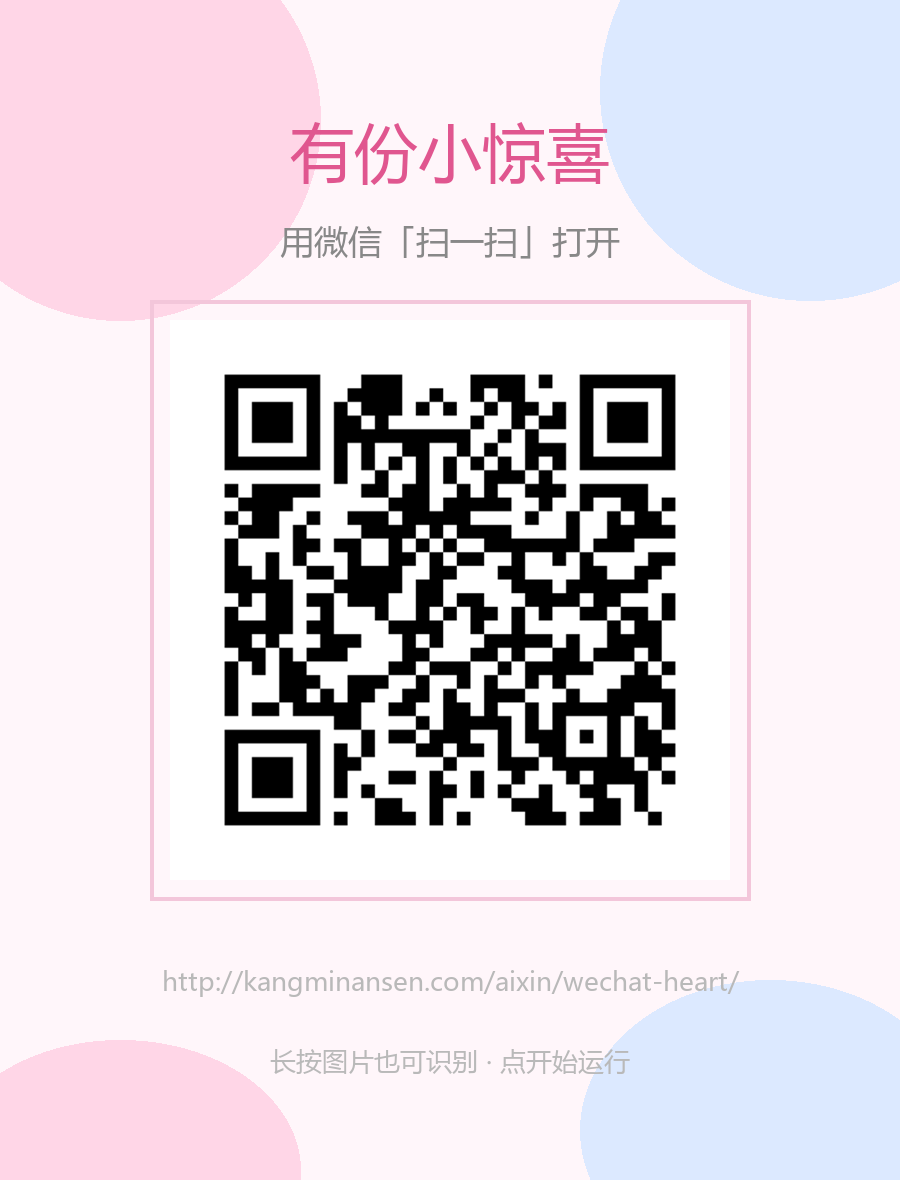
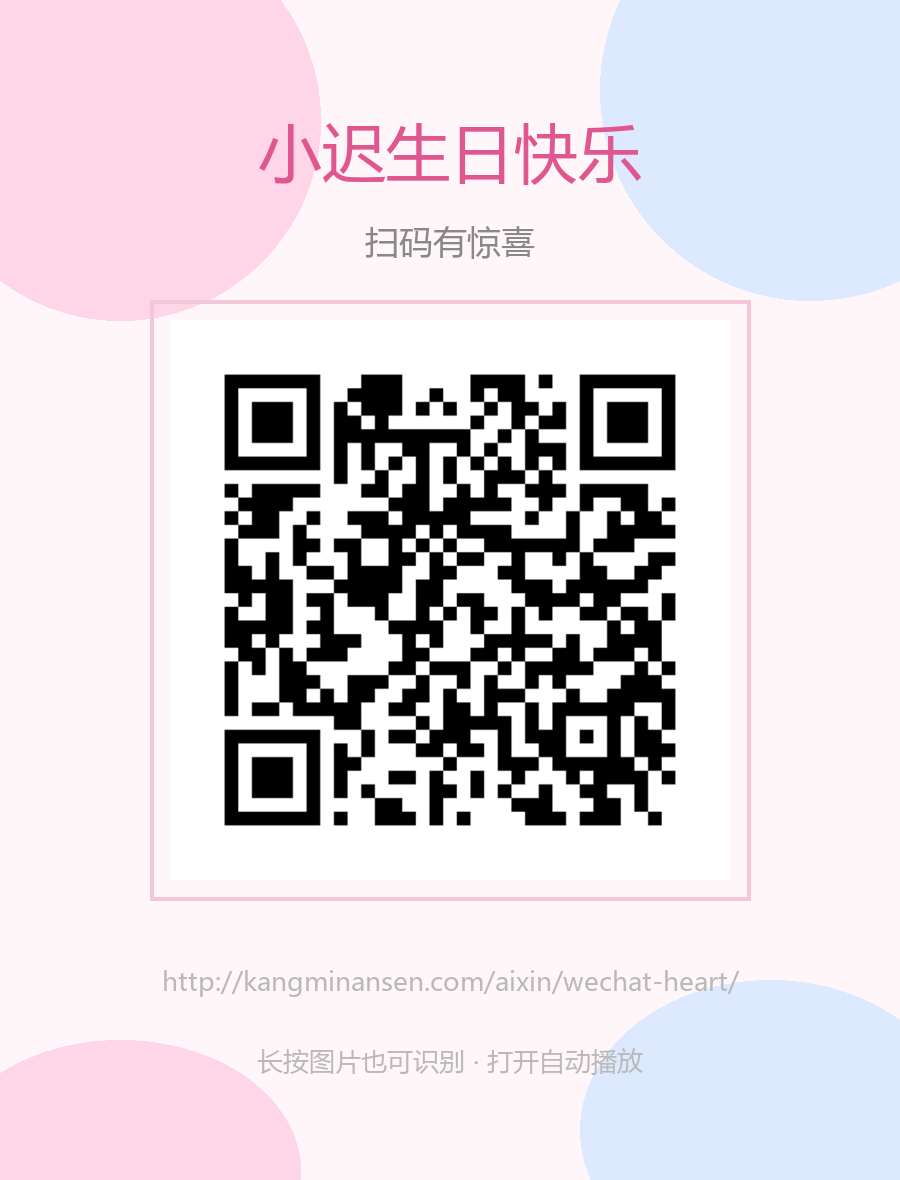
Add files via upload

diff --git a/wechat-heart/index.html b/wechat-heart/index.html
@@ -4,14 +4,14 @@
 <meta charset="UTF-8">
 <meta name="viewport" content="width=device-width, initial-scale=1, maximum-scale=1, user-scalable=no, viewport-fit=cover">
 <meta name="format-detection" content="telephone=no">
-<title>💗 有份小惊喜</title>
+<title>🎂 小迟生日快乐</title>
 <style>
   * { margin:0; padding:0; box-sizing:border-box; -webkit-tap-highlight-color:transparent; }
   html, body { width:100%; height:100%; overflow:hidden; }
   body {
     position:fixed; top:0; left:0; right:0; bottom:0;
     font-family:'PingFang SC','Microsoft YaHei','微软雅黑',sans-serif;
-    background:linear-gradient(135deg,#ffe6f0 0%,#e8f0ff 45%,#fff6e0 100%);
+    background:linear-gradient(135deg,#fff6e5 0%,#ffe3ee 45%,#fff0c2 100%);
     user-select:none; -webkit-user-select:none; overscroll-behavior:none;
   }
   #stage { position:fixed; top:0; left:0; right:0; bottom:0; overflow:hidden; }
@@ -59,14 +59,23 @@
     color:#888; border-radius:999px; padding:6px 14px; font-size:13px; cursor:pointer;
     touch-action:manipulation;
   }
+  .deco { position:fixed; opacity:.25; z-index:1; pointer-events:none; user-select:none; animation:floaty 5s ease-in-out infinite; }
+  @keyframes floaty { 0%,100% { transform:translateY(0); } 50% { transform:translateY(-18px); } }
 </style>
 </head>
 <body>
 <div id="stage"></div>
 
+<div class="deco" style="left:6%;top:8%;font-size:46px">🎂</div>
+<div class="deco" style="right:8%;top:14%;font-size:40px;animation-delay:.8s">🎈</div>
+<div class="deco" style="left:12%;bottom:12%;font-size:42px;animation-delay:1.6s">🎁</div>
+<div class="deco" style="right:10%;bottom:10%;font-size:38px;animation-delay:2.4s">🎉</div>
+<div class="deco" style="left:45%;top:5%;font-size:36px;animation-delay:3.2s">🍰</div>
+<div class="deco" style="right:30%;bottom:6%;font-size:34px;animation-delay:4s">🎈</div>
+
 <div id="endMask">
-  <h1>💌 送给你</h1>
-  <p>好好吃饭，好好爱自己<br>今天也要开心呀</p>
+  <h1>🎂 小迟生日快乐！</h1>
+  <p>身体健康，天天开心<br>所有的祝福都送给你</p>
   <button class="btn" id="againBtn">再来一次</button>
 </div>
 
@@ -75,8 +84,8 @@
 <script>
 (function () {
   'use strict';
-  var tips = ['学业有成','好好爱自己','好好吃饭','保持好心情','身体健康','顺顺利利','别熬夜','天凉了多穿衣服'];
-  var colors = ['#FFC0CB','#ADD8E6','#90EE90','#FFFACD','#FF69B4','#87CEEB'];
+  var tips = ['身体健康','好好吃饭','天天开心','别老熬夜','天冷了多穿点','别感冒','好好爱自己'];
+  var colors = ['#FFC0CB','#FFE4B5','#98FB98','#FFFACD','#FFB6C1','#FFDAB9'];
 
   var stage = document.getElementById('stage');
   var endMask = document.getElementById('endMask');
@@ -93,22 +102,25 @@
     return { sw: sw, sh: sh, w: w, h: h };
   }
 
-  function makeWin(x, y, text) {
+  function makeWin(x, y, text, opts) {
+    opts = opts || {};
     var d = sizeWin();
+    var w = opts.w || d.w;
+    var h = opts.h || d.h;
     var win = document.createElement('div');
     win.className = 'win';
     win.style.left = Math.round(x) + 'px';
     win.style.top = Math.round(y) + 'px';
-    win.style.width = d.w + 'px';
-    win.style.height = d.h + 'px';
-    win.style.background = colors[Math.floor(Math.random() * colors.length)];
+    win.style.width = w + 'px';
+    win.style.height = h + 'px';
+    win.style.background = opts.bg || colors[Math.floor(Math.random() * colors.length)];
     win.style.transform = 'rotate(' + (Math.random() * 4 - 2).toFixed(1) + 'deg)';
     win.style.zIndex = 10 + (windows.length % 60);
 
     var bar = document.createElement('div');
     bar.className = 'bar';
     var t = document.createElement('span');
-    t.textContent = '提示';
+    t.textContent = '祝福';
     var xb = document.createElement('button');
     xb.className = 'x';
     xb.textContent = '×';
@@ -118,7 +130,7 @@
     var body = document.createElement('div');
     body.className = 'body';
     body.textContent = text;
-    body.style.fontSize = (d.w < 150 ? 13 : 16) + 'px';
+    body.style.fontSize = (opts.fontSize || (d.w < 150 ? 13 : 16)) + 'px';
 
     win.appendChild(bar);
     win.appendChild(body);
@@ -202,18 +214,27 @@
     running = true;
     quitBtn.style.display = 'block';
 
-    // 第一步：按心形坐标依次弹出小窗口，最后一个写着“我喜欢你”
+    // 第一步：按心形坐标依次弹出小窗口，最后一片是生日祝福主卡
     var d = sizeWin();
     var pts = heartPoints(100, d.sw, d.sh);
     var i = 0;
     every(function () {
       if (i >= pts.length) {
         clearAllTimers();
-        later(function () { closeAll(true); fillScreen(); }, 1000);
+        later(function () { closeAll(true); fillScreen(); }, 5000);
         return;
       }
-      var tip = (i === pts.length - 1) ? '我喜欢你' : tips[Math.floor(Math.random() * tips.length)];
-      makeWin(pts[i][0], pts[i][1], tip);
+      if (i === pts.length - 1) {
+        // 最后一片卡片：小迟生日快乐！（加宽加大、单独配色）
+        var bigW = d.sw < 600 ? Math.max(170, Math.round(d.sw * 0.46)) : 200;
+        var bigH = d.sw < 600 ? 46 : 64;
+        var bx = Math.max(0, Math.min(pts[i][0] - (bigW - d.w) / 2, d.sw - bigW));
+        var by = Math.max(0, Math.min(pts[i][1] - (bigH - d.h) / 2, d.sh - bigH));
+        makeWin(bx, by, '🎂 小迟生日快乐！', { w: bigW, h: bigH, fontSize: d.sw < 600 ? 15 : 18, bg: '#FFB6C1' });
+        i++;
+        return;
+      }
+      makeWin(pts[i][0], pts[i][1], tips[Math.floor(Math.random() * tips.length)]);
       i++;
     }, 30);
   }

diff --git a/wechat-heart/make_qr.py b/wechat-heart/make_qr.py
@@ -71,8 +71,8 @@ try:
     d.ellipse([-60, H - 140, 300, H + 120], fill="#FFD6E7")
     d.ellipse([W - 320, H - 200, W + 60, H + 100], fill="#DCE9FF")
 
-    d.text((W / 2, 150), "有份小惊喜", font=f_big, fill="#E0568F", anchor="mm")
-    d.text((W / 2, 240), "用微信「扫一扫」打开", font=f_mid, fill="#888888", anchor="mm")
+    d.text((W / 2, 150), "小迟生日快乐", font=f_big, fill="#E0568F", anchor="mm")
+    d.text((W / 2, 240), "扫码有惊喜", font=f_mid, fill="#888888", anchor="mm")
 
     box = ((W - 600) // 2, 300, (W - 600) // 2 + 600, 900)
     d.rectangle(box, outline="#F3C6DA", width=4)
@@ -80,7 +80,7 @@ try:
 
     short = URL if len(URL) <= 52 else URL[:49] + "…"
     d.text((W / 2, 980), short, font=f_small, fill="#B9B9B9", anchor="mm")
-    d.text((W / 2, 1060), "长按图片也可识别 · 点开始运行", font=f_small, fill="#B9B9B9", anchor="mm")
+    d.text((W / 2, 1060), "长按图片也可识别 · 打开自动播放", font=f_small, fill="#B9B9B9", anchor="mm")
 
     card.save(POSTER_PATH)
     print("扫码卡片已生成:", POSTER_PATH)

diff --git a/wechat-heart/README.md b/wechat-heart/README.md
@@ -51,7 +51,7 @@ python make_qr.py "你的网址"
 
 - **改祝福语**：编辑 `index.html`，找到 `var tips = [...]` 数组，增删即可；
 - **换背景音乐**：把音乐文件改名为 `music.mp3` 放进本目录（微信会拦截自动播放音乐：页面打开时会先尝试一次，首次触摸屏幕后会自动再试，无需任何点击）；
-- **改标题 / 结束语**：直接改 `index.html` 中「有份小惊喜」「送给你」等文字。
+- **改标题 / 结束语**：直接改 `index.html` 中「小迟生日快乐」等文字；
 
 ## 五、说明
 
